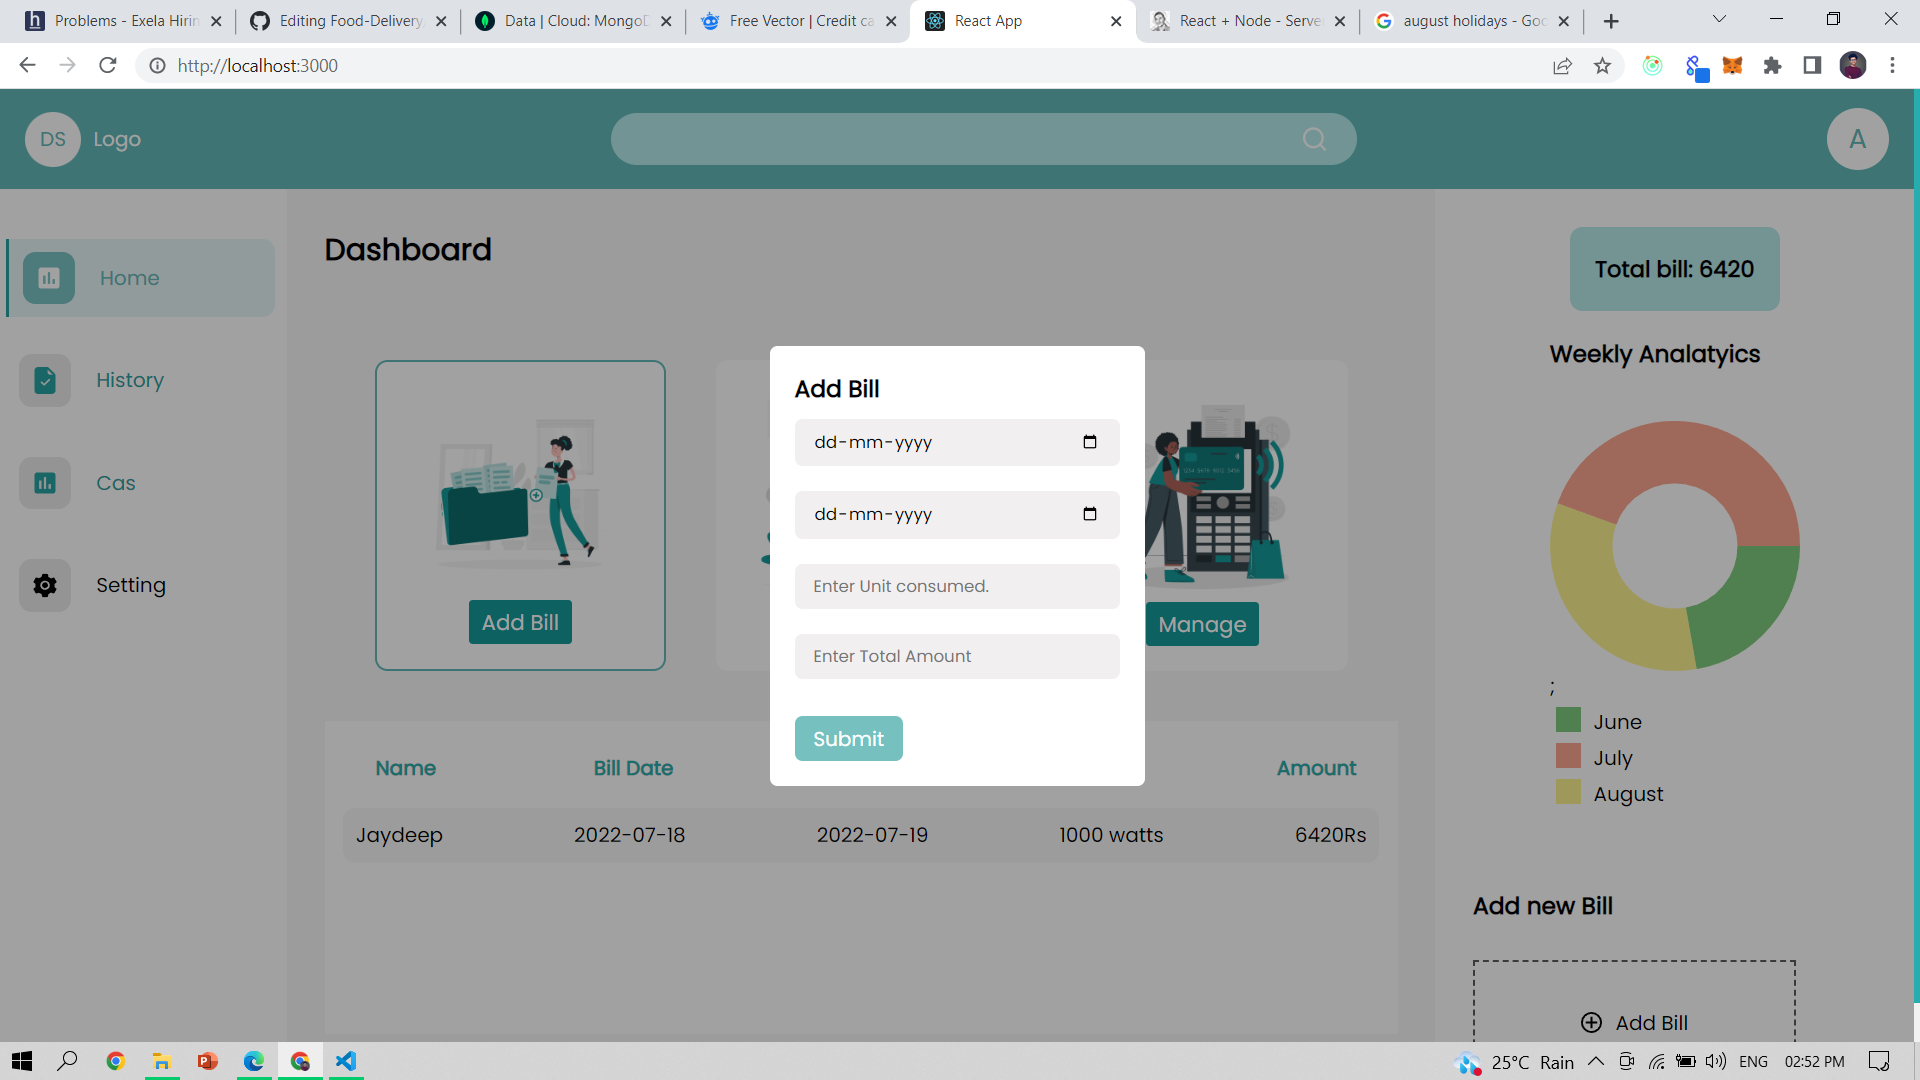
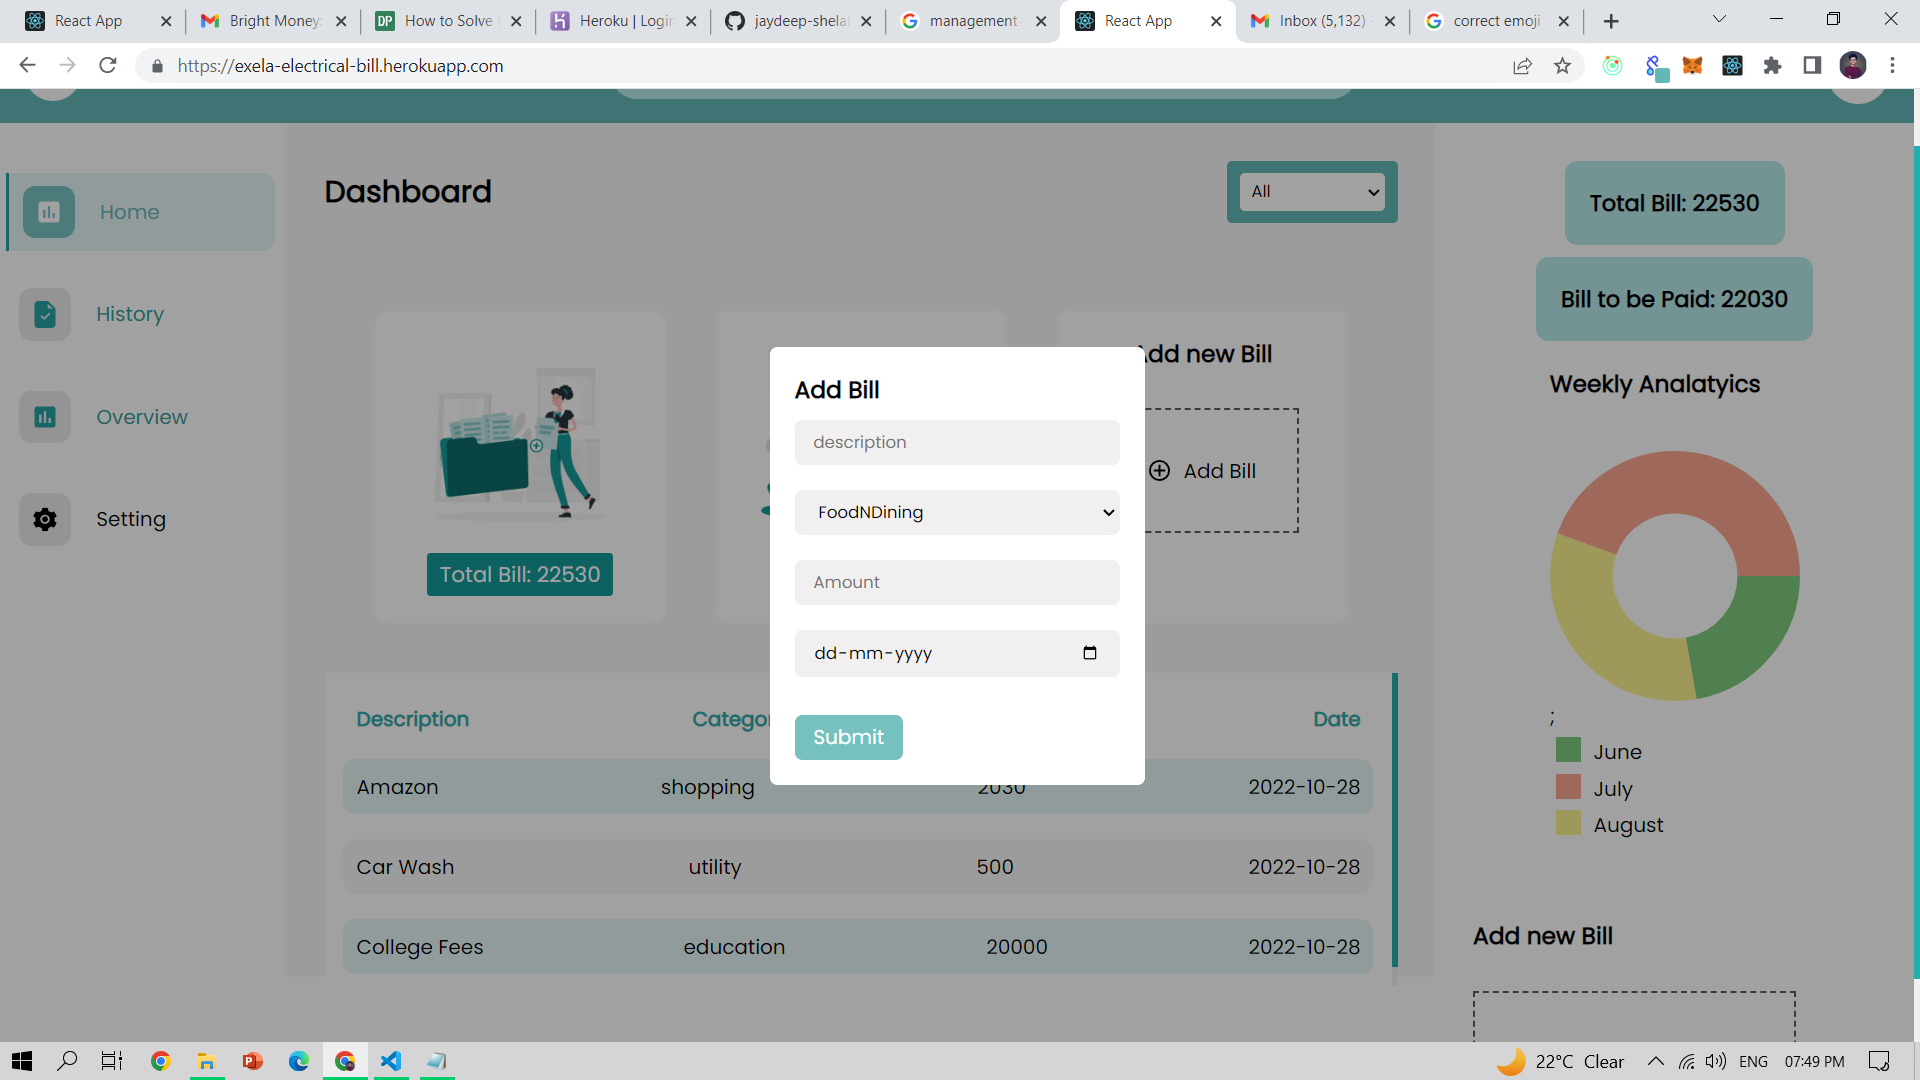
added images

diff --git a/README.md b/README.md
@@ -1,21 +1,19 @@
-# Food Delivery
+# Bill Management
 
 <div align="center">
   <img width="200px" src="./frontend/src/assets/images/Add files-rafiki.png"/>
 </div>
 <br>
 
-> Eleric bill app made using MERN stack (Exela Hiring Challenge ) <br>
-> Followed MVC architecture and microservices for serever side
+> Bill management app made using MERN stack <br>
 
 ## ⚙ Detailed Functionality
 
-- User can add the electric bills
-- Users can update quantity bill
-- User can delete the bill
-- User can paginate
-- User can view there old bills
-- User can add , edit or delete the bill
+- The user must be able to manually add, edit and remove bills. (data is stored in MongoDB database using NodeJS) ✅
+- The user must be able to filter bills by category. (category filter dropdown) ✅
+- Draw a time-series chart of the monthly billing cycle. ✅
+- The user can see the total amount of bills and the total amount yet to be paid ✅
+- If the total amount exceeds the total budget user will not be able to add a new bill ✅
 
 ## 🚀 Tech and Tools Used
 
@@ -37,6 +35,10 @@
 ## Add or Edit Form
 
 <img src="./add.png" width='800' height='auto'>
+
+## Chart
+
+<img src="./graph.png" width='800' height='auto'>
 
 ### LINK :
 
